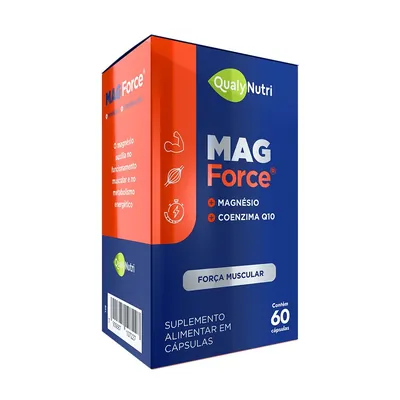
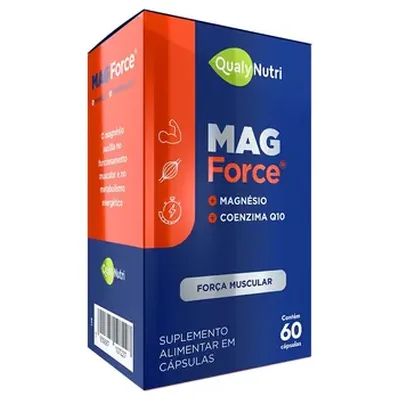
Fotos do primeiro lote: 39 produtos e fotos ocupando todo o quadrado (#62)
* Fotos do primeiro lote: 39 produtos com foto padronizada (400x400, webp) ligada pelo EAN

Claude-Session: https://claude.ai/code/session_01VGZFFZoTVfc3rucDBJHM2D

* Fotos ocupam todo o quadrado: recorte rente ao produto e cartões com foto quadrada

Claude-Session: https://claude.ai/code/session_01VGZFFZoTVfc3rucDBJHM2D

---------

Changed region(s): [[0.21, 0.0, 0.78, 0.99]]

diff --git a/app/nacoes-unidas/produtos/imagens.ts b/app/nacoes-unidas/produtos/imagens.ts
@@ -1,6 +1,21 @@
 /** Fotos oficiais de marca (public/produtos/<EAN>.webp), associadas pelo nome do item no catálogo (o Worker não expõe EAN). Item fora daqui fica sem foto. */
 export const FOTOS_NACOES: Readonly<Record<string, string>> = {
+  "AGIL C KIDS CHICO BENTO PLUS LARANJA 40G": "7898216363827",
+  "AGIL-C KIDS C/25 GOMAS CHICO BENTO SAB.": "7898216368501",
+  "ANTISEPT COLGATE PLAX 250ML FRESH MINT": "7891024136409",
+  "ARTRIFLEX ULTRA 80MG C/60 CAPS QUALYNUTR": "7898767760021",
+  "BIO C CITRUS 10CPR": "7896006297864",
   "BIOTINA MASTIGAVEL 45MCG C/60 COMP QUALY": "7898767762353",
+  "BLA HALLS EXTRA FORTE": "78938816",
+  "CHA DE HIBISCO 10SACHES 13G VEMAT": "7896050701027",
+  "CHICLE TRIDENT 8G MELANCIA": "7895800309780",
+  "CHICLE TRIDENT 8G MENTA VERDE": "7895800304228",
+  "CHICLE TRIDENT 8G MORANGO(E)": "7895800201503",
+  "CHICLE TRIDENT 8G TUTTI FRUTTI": "7895800430002",
+  "CINCO MAG 500MG C/60 CAPS QUALYNUTRI": "7898767760014",
+  "COGNON FOS 60CPR": "7898722861503",
+  "CONDRIGEN CURC 60 CAPS - MAX": "7898593052697",
+  "CONDROFLAN ULTRA 60CPS / AIREL": "7894164007691",
   "CR NIVEA 56 GR LATA": "78906617",
   "CR NIVEA FACIAL CONTROLE OLEOSIDADE 100 G": "42495727",
   "CREATINA MONOHIDRATADA 300G QUALYNUTRI": "7895143226973",
@@ -8,7 +23,17 @@ export const FOTOS_NACOES: Readonly<Record<string, string>> = {
   "DES HERBISSIMO TRAD 55G": "7896049528512",
   "DES REXONA COTTON DRY 150 ML": "7791293032467",
   "DES ROLL ON NIVEA PROTECT 50ML": "4005900130785",
+  "DESODORANTE DOVE SPRAY AEROSOL ORIGINAL 150ML": "7506306241183",
+  "DIMALATO MAGNESIO LAVITAN COM 60": "7897947620261",
+  "EQUALIV METILFOLATO CALCIO 30CPS / ALTHA": "7898687735666",
+  "ESPIRULINA 500MG 60CAPS BIOVITAS": "7896595216598",
+  "FENO GREGO FORT NUTRITION": "3079612776495",
+  "FERRO QUELATO 60 CAPS MAXINUTRI": "7898927980771",
+  "FINI DR DR GOOD MELATONINA C/60 UND UNID": "7908228803843",
   "FIO DENTAL HILLO 100 MTS": "7896444211118",
+  "FLEX SENSOR CONDRO 600MG C/60 CAPS QUALY": "7898767761165",
+  "FLEX SENSOR HIALURONIC 250MG C/60 CAPS Q": "7898767761141",
+  "FLEX SENSOR MAG 250MG C/60 CAPS QUALYNUT": "7898767761158",
   "HIDRAT CORPORAL BIOEXTRATUS 200G": "7898132988166",
   "LISTERINE COOL MINT 500ML*": "7891010256753",
   "LOCAO NIVEA SOFT MILK 200ML": "4005808335435",
@@ -16,10 +41,22 @@ export const FOTOS_NACOES: Readonly<Record<string, string>> = {
   "MAG FORCE 600MG C/60 CAPS QUALYNUTRI": "7898767760489",
   "METIL B12 600MG C/60 CAPS QUALYNUTRI": "7898767760540",
   "OMEGA 3 1000MG C/120 CAPS QUALYNUTRI": "7898767760632",
+  "QUALYVITAM OLHOS 171MG EPA 114MG DHA C/60": "602883980754",
+  "REDUX BURN 600MG C/60 CAPS QUALYNUTRI": "7898767760731",
+  "REDUX MORO 500MG C/60 CAPS QUALYNUTRI": "7898767760748",
   "SAB DOVE RADIANT GLOW 135G": "7891150103672",
   "SAB GRANADO BEBE REFIL 250 ML TRAD": "7896512922373",
   "SAB GRANADO GLIC ROSA 90G": "7896512959898",
+  "SUPLEVIT MULHER VIT 30CPS GEL (SUPL VIT": "7896004755458",
+  "T DALA NUTRI 500MG C/60 CAPS QUALYNUTRI": "7898767760007",
+  "TESTE GRAVIDEZ CONFIRA TIRAS": "7898108640609",
+  "TRIPTOCALM 1450MG C/30 CAPS QUALYNUTRI": "7898767760793",
   "VASENOL REPAIRING S/FRAG 200ML": "7891150028470",
+  "VITAMINA B12 60CPR MAXINUTRI MAST": "7898593053366",
+  "VITAMINA B12 METILCOBALAMINA 60CPR 9.9MCG MASSIME": "7898722861350",
+  "VITAMINA E 15MG C/30CAPS STD KATIGUA": "7898714761835",
+  "VITAMINE SE CURCUMA+VITA C 60 CAPS-OTC": "7893095348002",
+  "ZINCO QUELATO 60CPS KTG": "7898714761644",
 };
 
 function normalizarNome(nome: string): string {

diff --git a/app/shop/shop.css b/app/shop/shop.css
@@ -1144,3 +1144,11 @@ button.fluxo-continuar-comprando { border: 0; background: transparent; font: inh
   .shop-header .shop-marca { justify-self: start; padding-block: 0.5rem; }
   .shop-header .shop-icone, .shop-header .shop-acoes .reserva-sacola { color: var(--uf-action-ink); }
 }
+
+/* Foto do produto ocupando o quadrado inteiro do cartão (as fotos já vêm recortadas rente ao produto). */
+.catalogo-card-foto { width: 100%; }
+.shop-card-foto { aspect-ratio: 1 / 1 !important; height: auto !important; }
+.shop-card-foto img { width: 100% !important; height: 100% !important; max-width: 100%; max-height: 100%; object-fit: contain; }
+@media (min-width: 992px) {
+  .shop-card-foto { height: auto !important; }
+}
